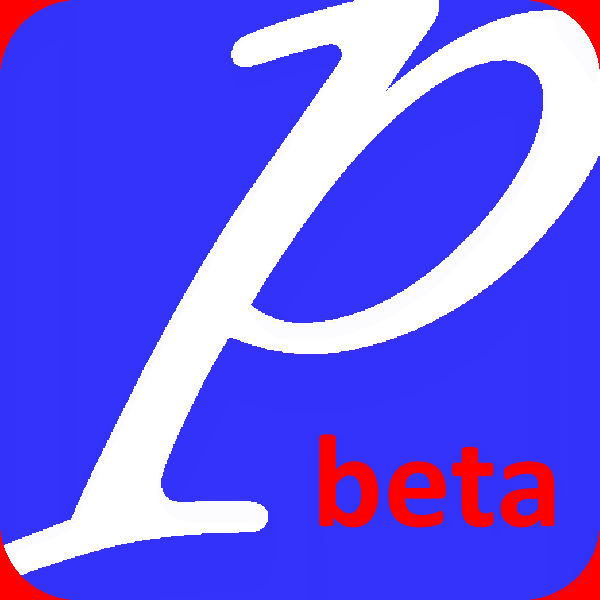
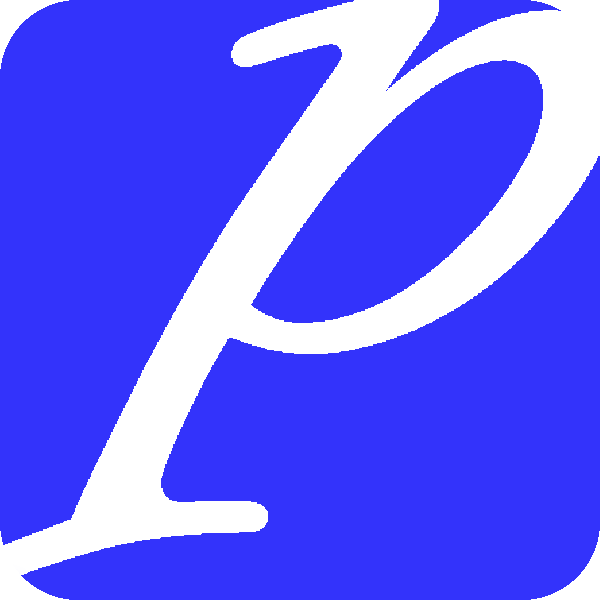
v3

diff --git a/Puime's_Addin/main.cs b/Puime's_Addin/main.cs
@@ -30,7 +30,7 @@ namespace Puime_s_Addin
 
         public static void AddinMain()
         {
-            Logger.AddMessage(new LogMessage("Puime's Addin Loaded ... 2023/11/09 - 11:56", "Puime's Add-in"));
+            Logger.AddMessage(new LogMessage("Puime's addin v3 loaded ...", "Puime's Add-in"));
 
             if (rgPA == null)
             {
@@ -110,17 +110,17 @@ namespace Puime_s_Addin
             btnJP.UpdateCommandUI += btnJP_UpdateCommandUI;
             btnJP.ExecuteCommand += btnJP_ExecuteCommand;
 
-            btnTC = new CommandBarButton("Text creator", "Text creator");
-            btnTC.Image = Resources.BT_textcreator;
-            galleryPA.GalleryControls.Add(btnTC);
-            btnTC.UpdateCommandUI += btnTC_UpdateCommandUI;
-            btnTC.ExecuteCommand += btnTC_ExecuteCommand;
+            //btnTC = new CommandBarButton("Text creator", "Text creator");
+            //btnTC.Image = Resources.BT_textcreator;
+            //galleryPA.GalleryControls.Add(btnTC);
+            //btnTC.UpdateCommandUI += btnTC_UpdateCommandUI;
+            //btnTC.ExecuteCommand += btnTC_ExecuteCommand;
 
-            btnMP = new CommandBarButton("Auto move parameters", "Auto move parameters");
-            btnMP.Image = Resources.BT_move;
-            galleryPA.GalleryControls.Add(btnMP);
-            btnMP.UpdateCommandUI += btnMP_UpdateCommandUI;
-            btnMP.ExecuteCommand += btnMP_ExecuteCommand;
+            //btnMP = new CommandBarButton("Auto move parameters", "Auto move parameters");
+            //btnMP.Image = Resources.BT_move;
+            //galleryPA.GalleryControls.Add(btnMP);
+            //btnMP.UpdateCommandUI += btnMP_UpdateCommandUI;
+            //btnMP.ExecuteCommand += btnMP_ExecuteCommand;
 
             UIEnvironment.RibbonTabs["Modeling"].Groups[0].Controls.Insert(7, galleryPA);
         }

diff --git a/Puime's_Addin/Properties/AssemblyInfo.cs b/Puime's_Addin/Properties/AssemblyInfo.cs
@@ -10,7 +10,7 @@ using System.Runtime.InteropServices;
 [assembly: AssemblyConfiguration("")]
 [assembly: AssemblyCompany("ABB")]
 [assembly: AssemblyProduct("Puime_s_Addin")]
-[assembly: AssemblyCopyright("Copyright © ABB 2018")]
+[assembly: AssemblyCopyright("Copyright © ABB 2023")]
 [assembly: AssemblyTrademark("")]
 [assembly: AssemblyCulture("")]
 
@@ -32,5 +32,5 @@ using System.Runtime.InteropServices;
 // You can specify all the values or you can default the Build and Revision Numbers 
 // by using the '*' as shown below:
 // [assembly: AssemblyVersion("1.0.*")]
-[assembly: AssemblyVersion("1.0.0.0")]
-[assembly: AssemblyFileVersion("1.0.0.0")]
+[assembly: AssemblyVersion("3.0")]
+[assembly: AssemblyFileVersion("3.0")]
